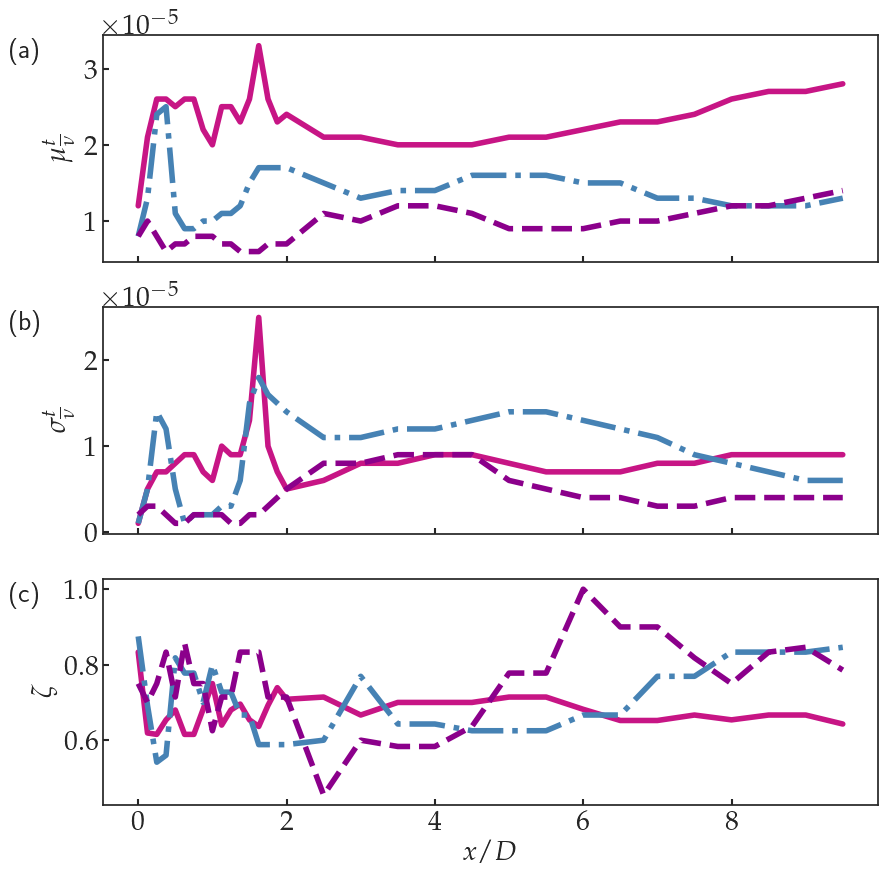
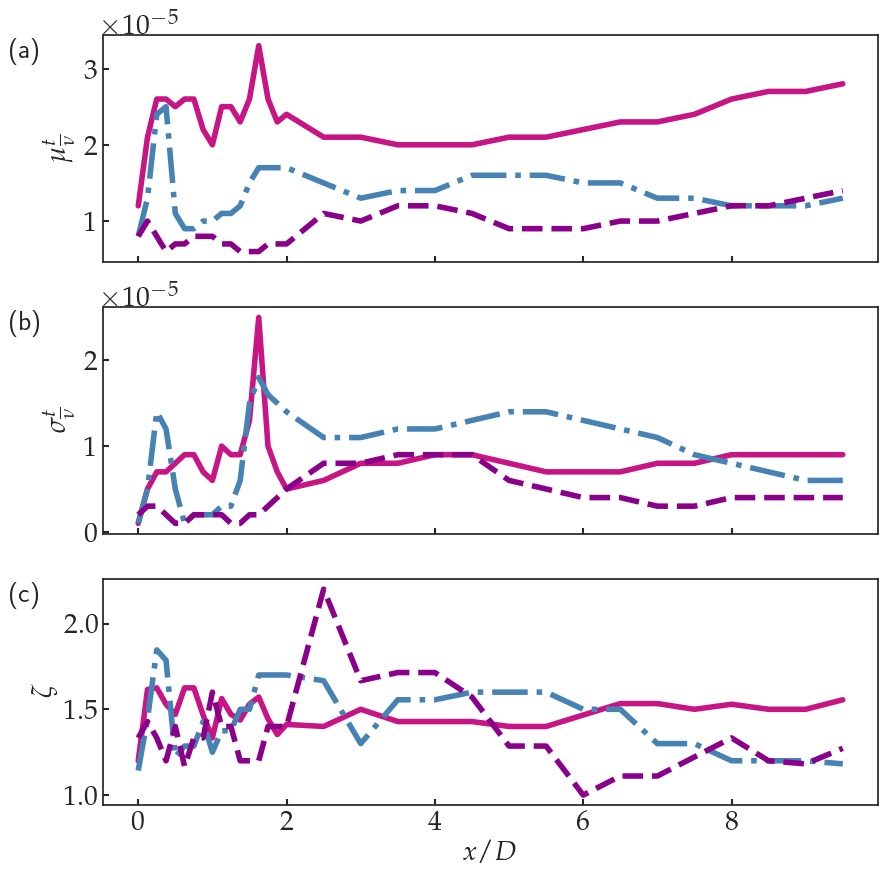
update

diff --git a/userHistogram/userPlotHistogramNoLogFactor.py b/userHistogram/userPlotHistogramNoLogFactor.py
@@ -408,7 +408,7 @@ def plot_nu_mean():
         for case in casesNonNewtonian:
             ax[0].plot(x, databaseDict[case]['mean_tail'], linestyle=linestyleDict[case], linewidth=linewidthDict[case], color=colorDict[case])
             ax[1].plot(x, databaseDict[case]['rms_tail'], linestyle=linestyleDict[case], linewidth=linewidthDict[case], color=colorDict[case])
-            ax[2].plot(x, (databaseDict[case]['mean']+higherOrderStat[case]['rms'])/higherOrderStat[case]['mean_tail'], linestyle=linestyleDict[case], linewidth=linewidthDict[case], color=colorDict[case])
+            ax[2].plot(x, higherOrderStat[case]['mean_tail']/(databaseDict[case]['mean']+higherOrderStat[case]['rms']), linestyle=linestyleDict[case], linewidth=linewidthDict[case], color=colorDict[case])
     
         ax[0].set_ylabel(r"$\mu^t_{\overline{\nu}}$")
         ax[1].set_ylabel(r"$\sigma^t_{\overline{\nu}}$")
